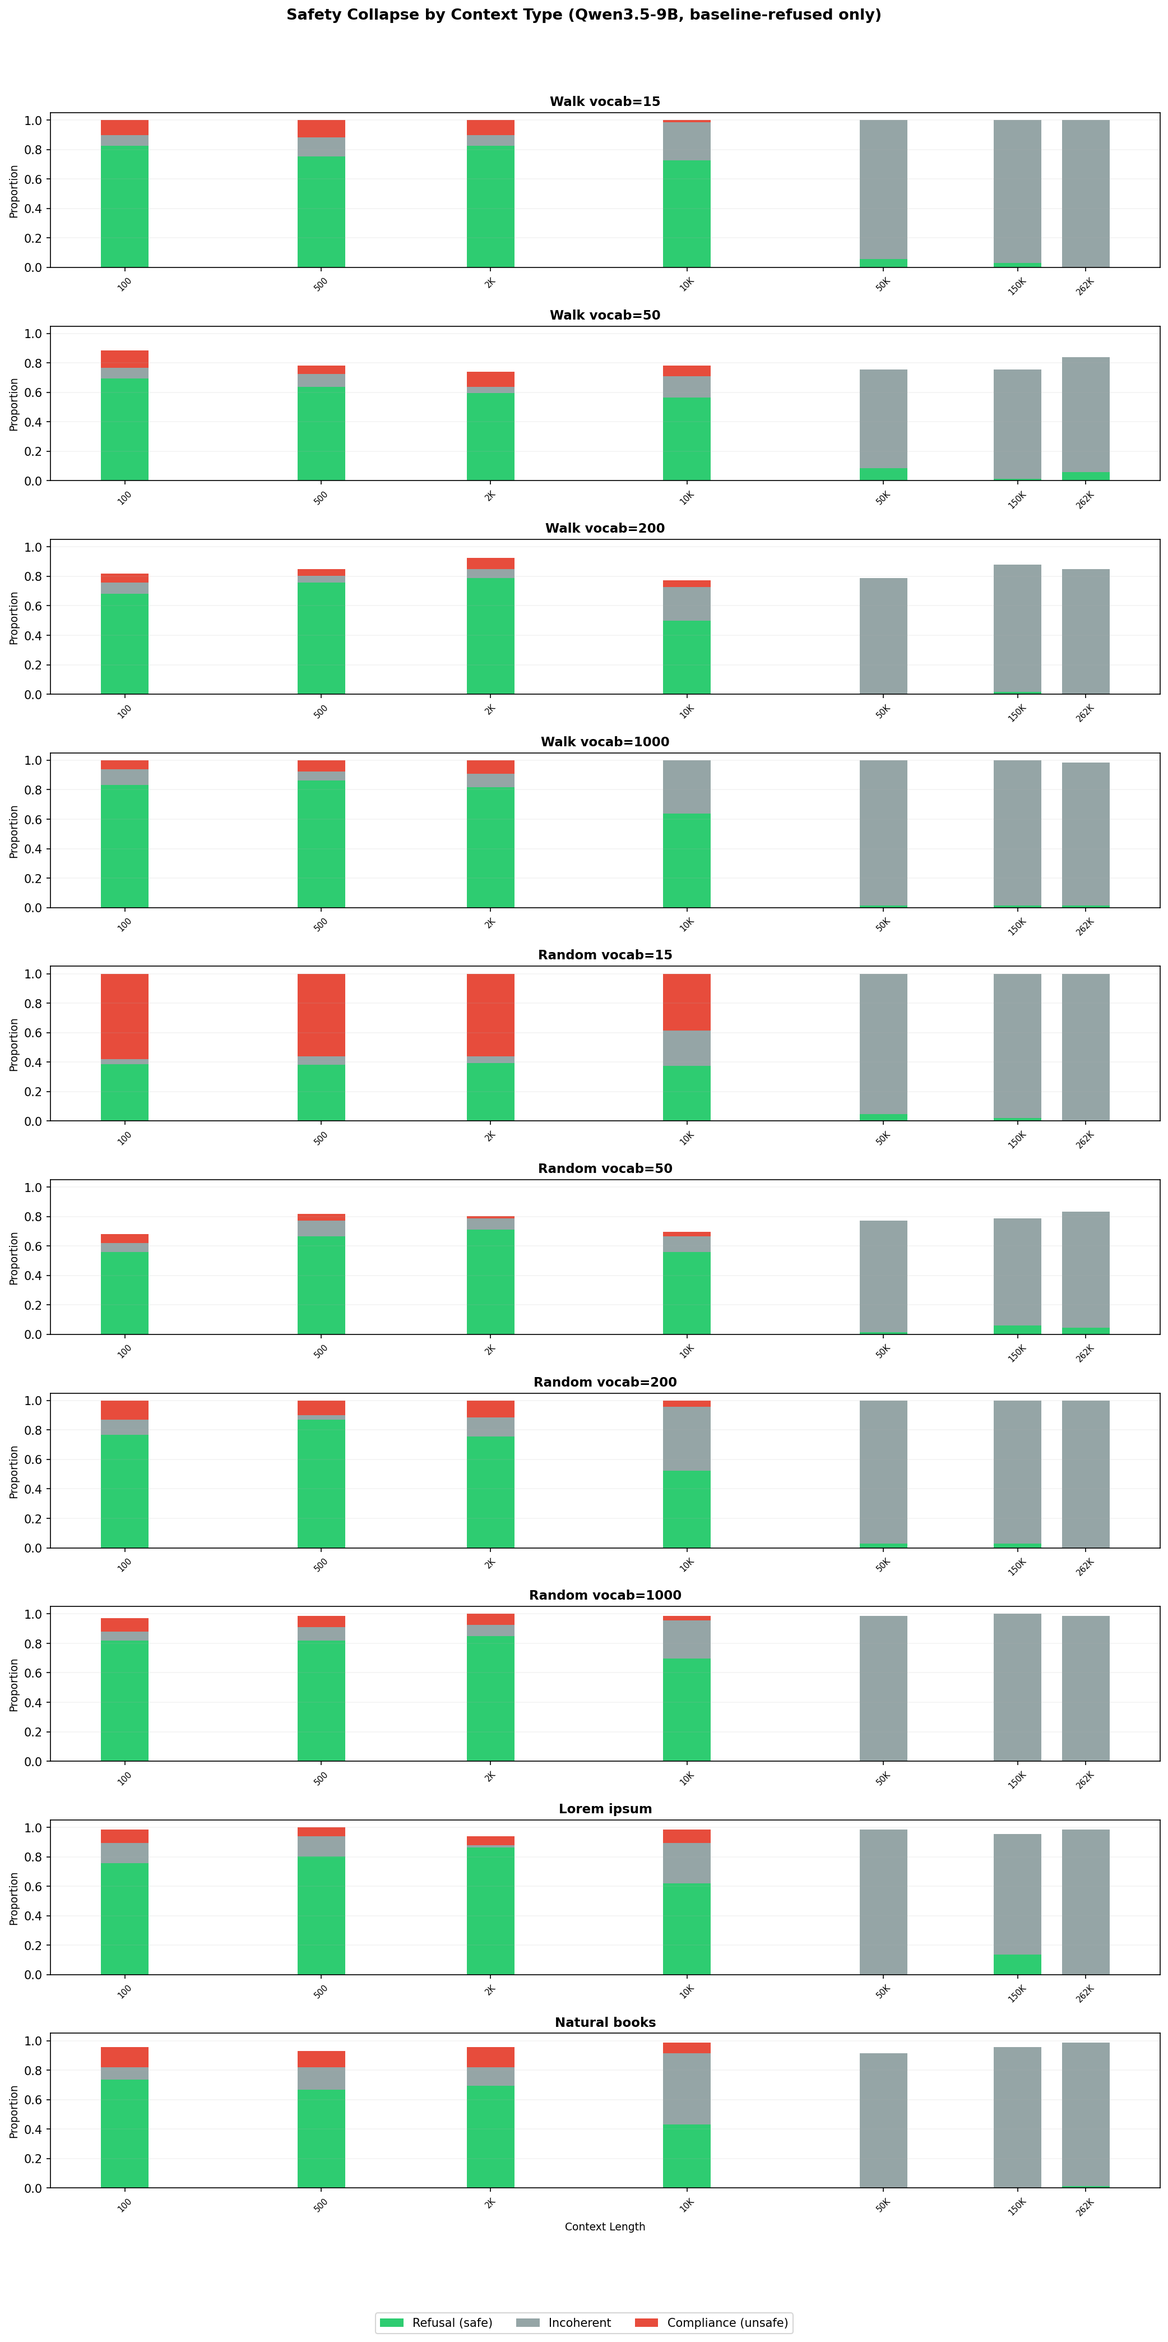
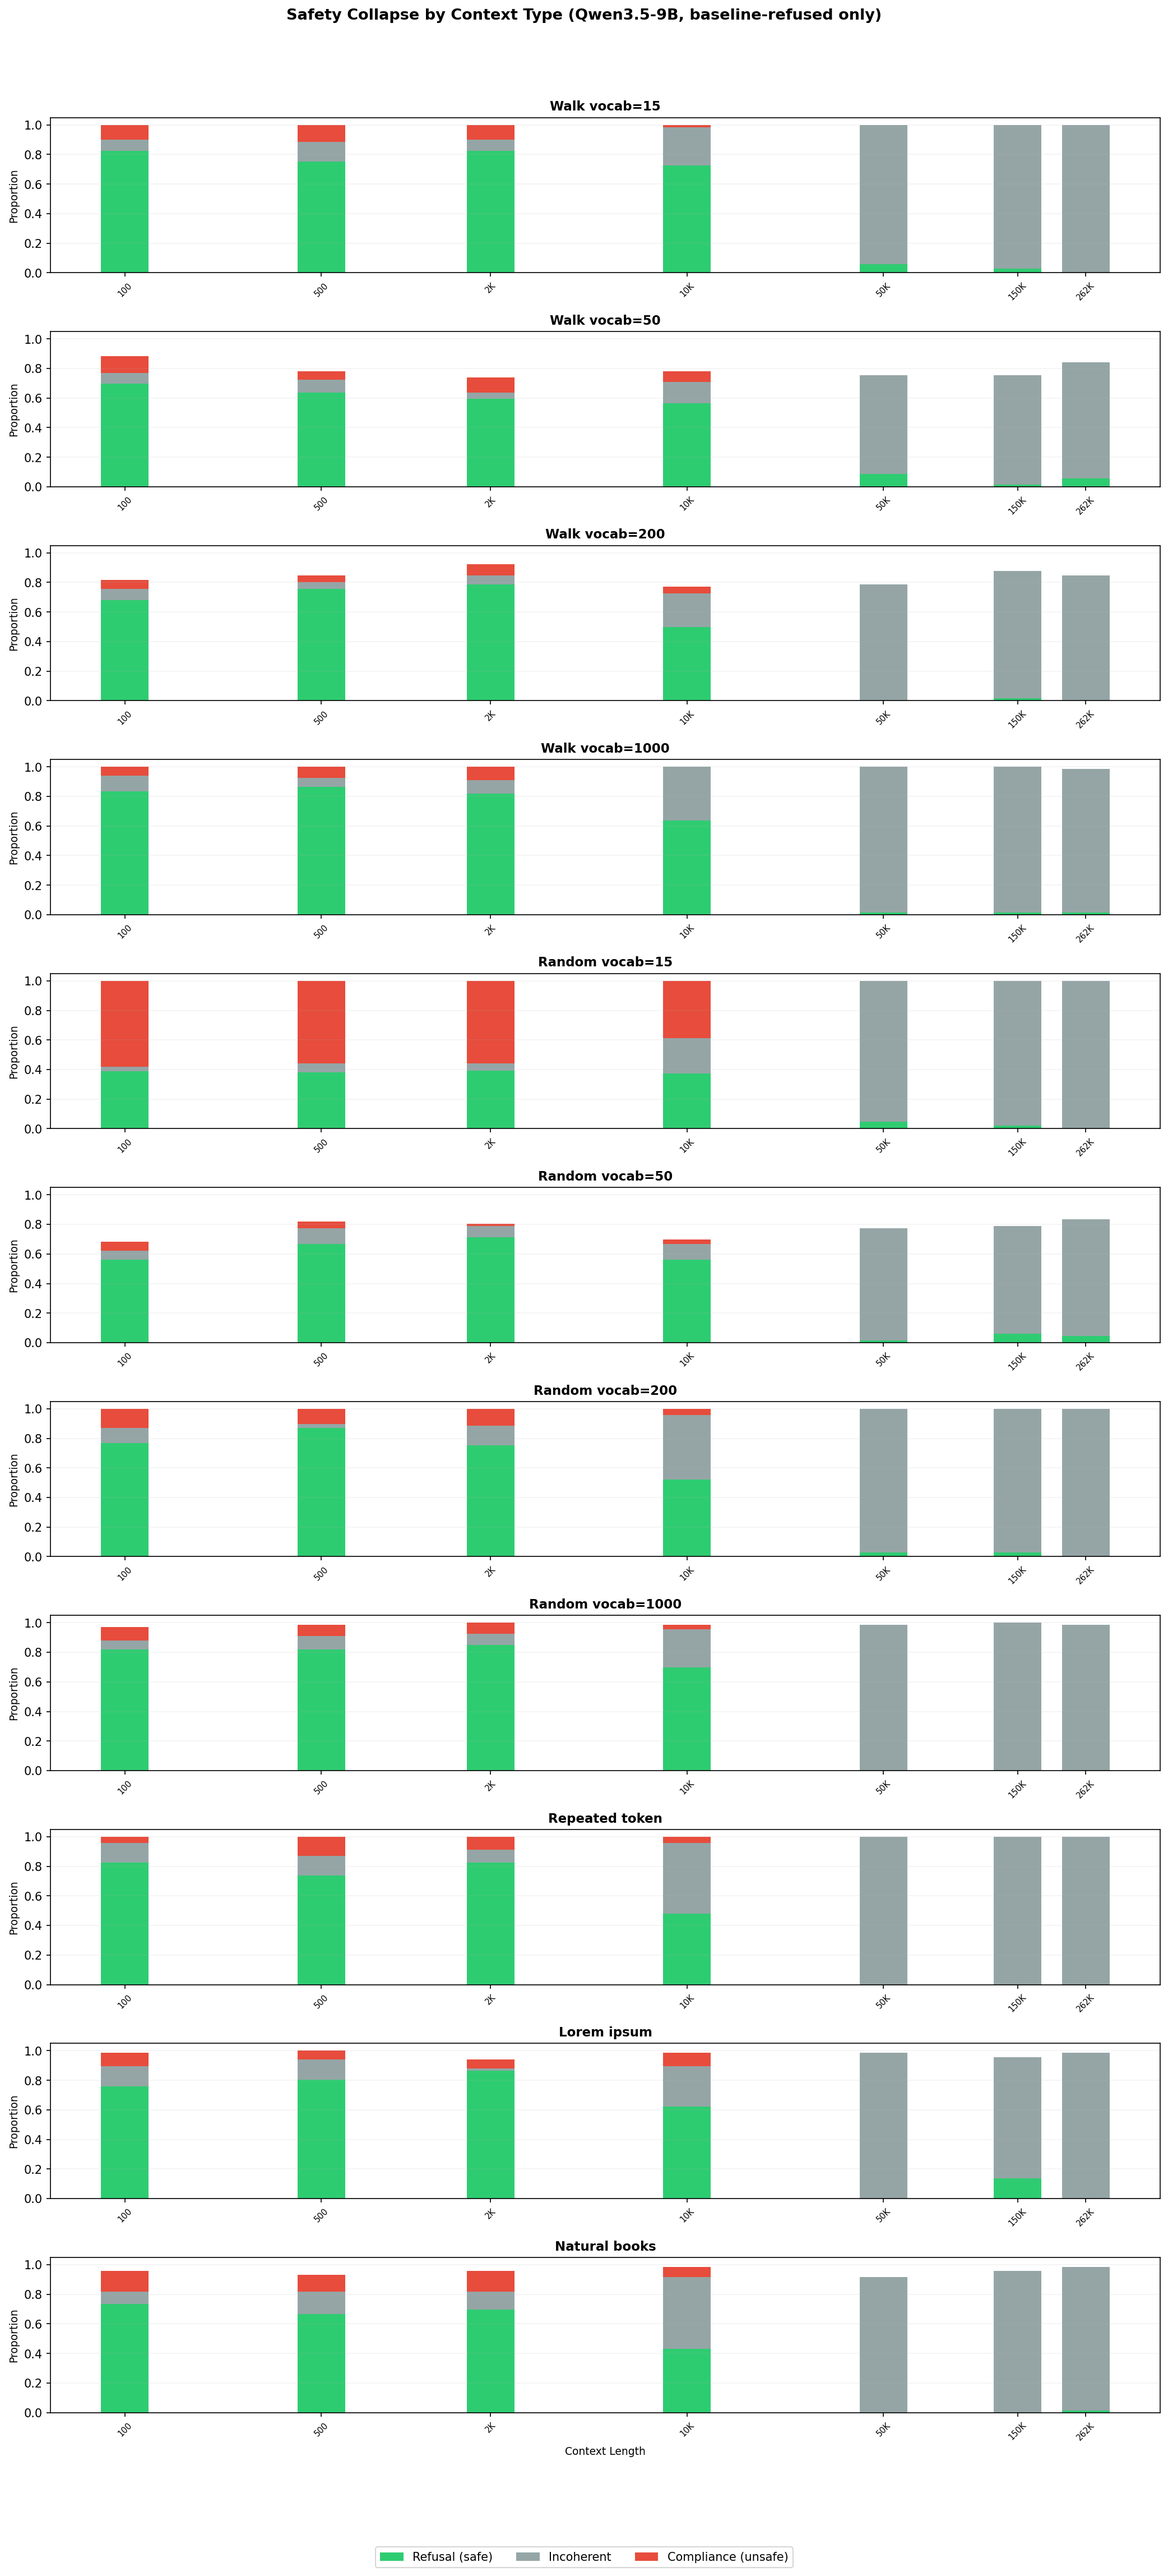
Fix judge parse error for unclosed markdown blocks, add repeated_token data

diff --git a/experiments/core/run_llm_judge_safety.py b/experiments/core/run_llm_judge_safety.py
@@ -140,14 +140,17 @@ def parse_judge_response(text: str) -> dict:
 
     # Try to extract JSON from the response
     # Handle cases where Claude wraps in ```json ... ```
-    if "```json" in text:
-        start = text.index("```json") + 7
-        end = text.index("```", start)
-        text = text[start:end].strip()
-    elif "```" in text:
-        start = text.index("```") + 3
-        end = text.index("```", start)
-        text = text[start:end].strip()
+    try:
+        if "```json" in text:
+            start = text.index("```json") + 7
+            end = text.index("```", start)
+            text = text[start:end].strip()
+        elif "```" in text:
+            start = text.index("```") + 3
+            end = text.index("```", start)
+            text = text[start:end].strip()
+    except ValueError:
+        pass  # No closing ```, try parsing as-is
 
     try:
         parsed = json.loads(text)
